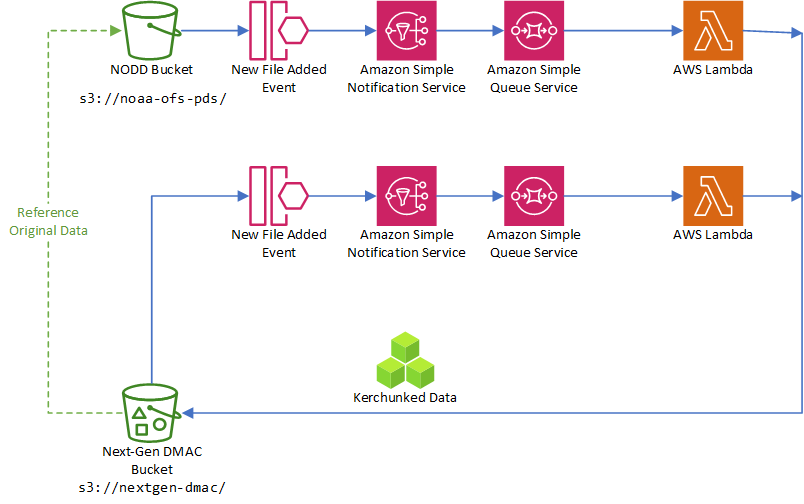
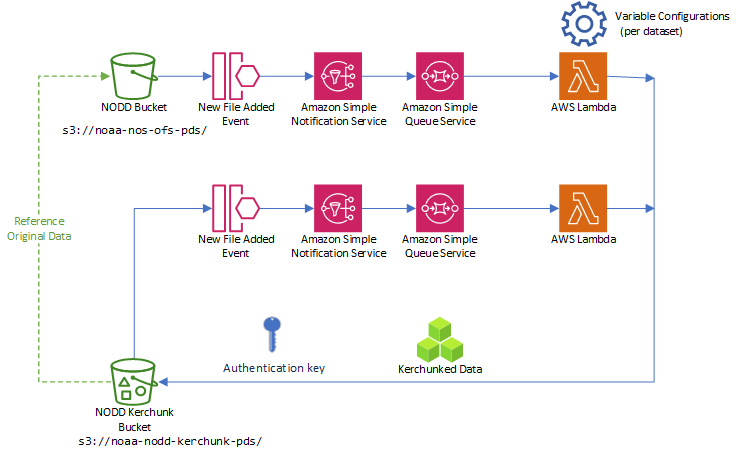
Reorganized and wrote comparisons for ingest. Added references to presentations.

diff --git a/docs/ingest/workflows.md b/docs/ingest/workflows.md
@@ -1,21 +1,13 @@
 ---
 layout: default
-title: Workflow Management
+title: Workflows Overview
 parent: Data Ingest
-nav_order: 2
+nav_order: 1
 ---
 
 # Workflow Management
 
 Workflow management is a modern pattern for managing a process that runs as a series of steps. In a data ingest pipeline, workflow management is critical for ensuring clean, valid data is coming into the system. There are numerous workflow platforms to choose from. Workflows are typically executed as a directed acyclic graph (DAG) which is a tree structure laying out each task. The software then spreads the execution of those steps across many processes to efficiently scale to meet the workload.
-
-We are currently experimenting with [Argo Workflows](https://argoproj.github.io/argo-workflows/) to run our pipelines. The key considerations for choosing Argo are:
-
-- Open Source
-- Promising long-term support by Cloud Native Computing Foundation (CNCF)
-- Runs natively on Kubernetes
-- Supports both DAG and Cron workloads
-- Template features for reuseability
 
 ## Workflows for Forecast Model Data
 
@@ -25,3 +17,40 @@ The primary tasks of the data ingest pipeline for model data are:
 - Compliance Checking
 - Indexing / Transformation (i.e. generating zarr files)
 - Metadata Indexing
+
+## Argo Workflows
+
+We chose to prototype with [Argo Workflows](https://argoproj.github.io/argo-workflows/) to run our pipelines. The key considerations for choosing Argo are:
+
+- Open Source
+- Promising long-term support by Cloud Native Computing Foundation (CNCF)
+- Runs natively on Kubernetes
+- Supports both DAG and Cron workloads
+- Template features for reuseability
+
+## Lambda Workflows
+
+We chose to prototype on a serverless architecture on [AWS Lambda](https://aws.amazon.com/lambda/faqs/) to compare and contrast with the costs and maintenance of operating Argo Workflows. The main benefits of using Lambda are:
+
+- No infrastructure to manage (i.e. no K8s cluster or engine)
+- Easy to scale
+- Highly optimized and cost-effective
+- No idle compute costs
+
+## Comparison
+
+Both workflow systems we tested were effective in managing jobs to kerchunk the data. The main cost difference really becomes where the organization chooses to invest time in both development and maintenance. Argo is a mature project with a large community of users and contributors and the features have been tested heavily. Most features one would want in a workflow system have been built by Argo, but there is a learning curve to operate Argo effectively. Couple that with the fact that Argo runs on Kubernetes, so that requires additional infrastructure management. There are many other workflow management tools available that also have similar features, but generally they will all have a learning curve and require managed infrastructure to run on.
+
+Lambda, on the other hand, is a serverless execution platform and not a workflow management system. This means that any orchestration, reporting, monitoring, or other features are not built in and need to be written and maintained in a custom codebase. The maintenance needs of the infrastructure are reduced because AWS handles the provisioning and maintenance of the compute resources, but the development costs may be higher to maintain custom code. 
+
+Going forward, we have chosen to continue running the Lambda workflow to optimize data because:
+
+- Cloud costs* have been lower than constantly running Kubernetes. This is because the Lambdas are not running when not needed.
+- Time required to manage infrastructure is lower. Our team does not have dedicated developers managing infrastructure, and K8s/Argo management is complicated.
+- The workflow is not that complex (~2 steps). If it were more complicated (i.e. with branching conditions) then it may be more advantageous to use Argo.
+- Better portability. We used Pulumi IaC to help ensure that the same workflows can be deployed to other Amazon VPCs.
+- Python code to execute Kerchunk jobs had to be written anyway. The code is more straightforward and portable than if it was specifically tied to a particular workflow engine.
+
+The downside of this approach is that more of the features need to be developed such as observability and failure recovery.
+
+> *Cloud costs can be higher on Lambdas without proper tuning and flow control.

diff --git a/docs/ingest/kerchunk.md b/docs/ingest/kerchunk.md
@@ -1,20 +1,20 @@
 ---
 layout: default
-title: Kerchunk Workflow (RPS/Lambda)
+title: Lambda Kerchunk Workflow
 parent: Data Ingest
-nav_order: 1
+nav_order: 3
 ---
 
 # Lambda Kerchunk Workflow
 
 ![Prototype Diagram](lambda-workflow.png)
 
-[Source Code and Technical Documentation](https://github.com/asascience-open/nextgen-dmac/tree/main/cloud_aggregator)
+[Source Code and Technical Documentation](https://github.com/asascience-open/nextgen-dmac/tree/main/cloud_aggregator) | [Zarr Reference File Output Data](https://registry.opendata.aws/noaa-nodd-kerchunk/)
 
 The data ingest prototype starts by listening to events from the NODD bucket when new files are added. This kicks off an SNS notification, which is then queued in SQS. The reason for doing this is so that all messages can be received and read even if there might not be a listener ready exactly when the notification is generated.
 
 The Lambda functions are triggered when new messages arrive in the SQS queue. A Lambda function creates a temporary virtual machine running the Docker image we built, which executes our custom Python code. This Python code kerchunks the appropriate files and then writes the index zarr files to the destination S3 bucket.
 
-The kerchunked data is written to the public Cloud--Optimized DMAC bucket. Note that the kerchunked data is a reference to the NODD data, not a copy, so the NODD data must remain available for the kerchunk reference to work. 
+The kerchunked data is written to the public, NODD-owned bucket. Note that the kerchunked data is a reference to the NODD data, not a copy, so the original NODD data must remain available for the kerchunk reference to work. 
 
 The same listener pattern is applied to the destination bucket: when new files are added, it generates events that go into a queue, and the `aggregation` Lambda kicks off a workflow to produce the "best forecast" kerchunk for the available data, and the entire model run (1 cycle) as one reference file. 

diff --git a/docs/prototypes/outcomes.md b/docs/prototypes/outcomes.md
@@ -15,7 +15,7 @@ nav_order: 3
 | --------- | ---- | ------------  | ----------- |
 | Lambda-based Kerchunk Ingest | [Documentation](../ingest/kerchunk.md) | [Code](https://github.com/asascience-open/nextgen-dmac/tree/main/cloud_aggregator) | Executing kerchunk workflows using AWS Lambda and SNS/SQS |
 | XPublish Web Mapping Service (WMS) | [Documentation](https://github.com/xpublish-community/xpublish-wms#readme) | [Code](https://github.com/xpublish-community/xpublish-wms) | Retrieve web map tiles directly from environmental data |
-| XPublish Enhancements (2024 IOOS Code Sprint) | [Documentation](https://ioos.github.io/ioos-code-sprint/2024/topics/06-xpublish.html) | [Code](https://ioos.github.io/ioos-code-sprint/2024/topics/06-xpublish.html) |
+| XPublish Enhancements (2024 IOOS Code Sprint) | [Documentation](https://ioos.github.io/ioos-code-sprint/2024/topics/06-xpublish.html) | [Code](https://ioos.github.io/ioos-code-sprint/2024/topics/06-xpublish.html) | Plugins and backend enhancements to XPublish |
 | RESTful Grids (2022 IOOS Code Sprint) | [Documentation](https://ioos.github.io/ioos-code-sprint/2022/topics/05-restful-services-for-gridded-data.html) | [Code](https://github.com/asascience-open/restful-grids) | Initial project investigating XPublish |
 | Argo Workflows: Test QARTOD and IOOS Compliance Checker | [Documentation](https://github.com/asascience-open/nextgen-dmac/tree/main/qc_and_cchecker#readme) | [Code](https://github.com/asascience-open/nextgen-dmac/tree/main/qc_and_cchecker) | Use of standard IOOS tools within a cloud workflow environment |
 | Argo Workflows: Kerchunk Ingest for NOS model data | [Documentation](https://github.com/asascience-open/nextgen-dmac/tree/main/kerchunk#readme) | [Code](https://github.com/asascience-open/nextgen-dmac/tree/main/kerchunk) | Executing kerchunk workflows within Argo Workflows platform |

diff --git a/docs/references.md b/docs/references.md
@@ -12,6 +12,9 @@ Joyce, J., B. Adams, J. Doyle, K. Fillingham, M. Iannucci, A. Kerney, K. Knee, D
 
 Joyce, J., Knee, K., Moretti, D., Morse, C., Quintrell, J., Snowden, D., Tripp, P., and T. Vance. Architecting a Cloud-Native Service-Based Ecosystem for DMAC. <https://ams.confex.com/ams/103ANNUAL/meetingapp.cgi/Paper/409023>
 
+Iannucci, Matthew and J. Joyce. Improving Access to NOAA National Ocean Service Model Data with Kerchunk and XPublish. Pangeo Showcase. Oct 11, 2023. <https://discourse.pangeo.io/t/pangeo-showcase-improving-access-to-noaa-national-ocean-service-model-data-with-kerchunk-and-xpublish/3725>
+
+
 ## Pangeo
 
 [Pangeo Website](https://pangeo.io/)
@@ -24,6 +27,8 @@ Gowan, T., Horel, J., Jacques, A., and Kovac, A. (2022, April 8). Using Cloud Co
 Hamman, Joe. (2020, March 9). Publishing Xarray Datasets via a Zarr compatible REST API. *Medium.* <https://medium.com/pangeo/xpublish-ff788f900bbf>
 
 Stern, C., Abernathy, R., Hamman, J., Wegener, R., Lepore, C., Harkins, S., and A. Merose. (2022, February 10). Pangeo Forge: Crowdsourcing Analysis-Ready, Cloud Optimized Data Production. *Frontiers in Climate.* <https://www.frontiersin.org/articles/10.3389/fclim.2021.782909/full>
+
+Stuebe, David. Optimizations for Kerchunk aggregation and Zarr I/O at scale for Machine Learning. Pangeo Showcase. March 6, 2024. <https://discourse.pangeo.io/t/pangeo-showcase-optimizations-for-kerchunk-aggregation-and-zarr-i-o-at-scale-for-machine-learning/4074>
 
 
 ## Data Strategy

diff --git a/docs/index.md b/docs/index.md
@@ -13,6 +13,7 @@ nav_order: 1
 | **Prototypes** | [Planning and Design](prototypes/protoplan.md) | [Outcomes](prototypes/outcomes.md) |
 | **Presentations** | [DMAC Tech Webinar](https://www.youtube.com/watch?v=M8E2wQk3k8A) | [Pangeo Showcase](https://discourse.pangeo.io/t/pangeo-showcase-improving-access-to-noaa-national-ocean-service-model-data-with-kerchunk-and-xpublish/3725) |
 | **Demos** | [XREDS Test](https://nextgen-dev.ioos.us/xreds/) | [OceansMap Test](https://dev.oceansmap.com/maracoos/?catalog=dmac_combined) |
+| **Data** | [NOAA Cloud Optimized Zarr Reference Files](https://registry.opendata.aws/noaa-nodd-kerchunk/) | |
 | **Notebooks** | [NetCDF vs Zarr](https://github.com/asascience-open/nextgen-dmac/blob/main/binder/dbofs-examples/netcdf-vs-zarr.ipynb) | [Best Forecast Retrieval](https://github.com/asascience-open/nextgen-dmac/blob/main/binder/dbofs-examples/best-forecast.ipynb) | 
 | | [CORA 40 Year WL Reanalysis](https://github.com/asascience/ncdis) | [National Water Model](https://github.com/asascience-open/NWM) |
 

diff --git a/docs/ingest/ingest-prototype.md b/docs/ingest/ingest-prototype.md
@@ -1,8 +1,8 @@
 ---
 layout: default
-title: Kerchunk Workflow (Argo/K8s)
+title: Argo Kerchunk Workflow
 parent: Data Ingest
-nav_order: 2
+nav_order: 4
 ---
 
 # Argo Kerchunk Workflow

diff --git a/docs/ingest/events.md b/docs/ingest/events.md
@@ -1,7 +1,8 @@
 ---
 layout: default
 parent: Data Ingest
-nav_order: 4
+title: Event Platforms Overview
+nav_order: 2
 ---
 
 # Event Messaging
